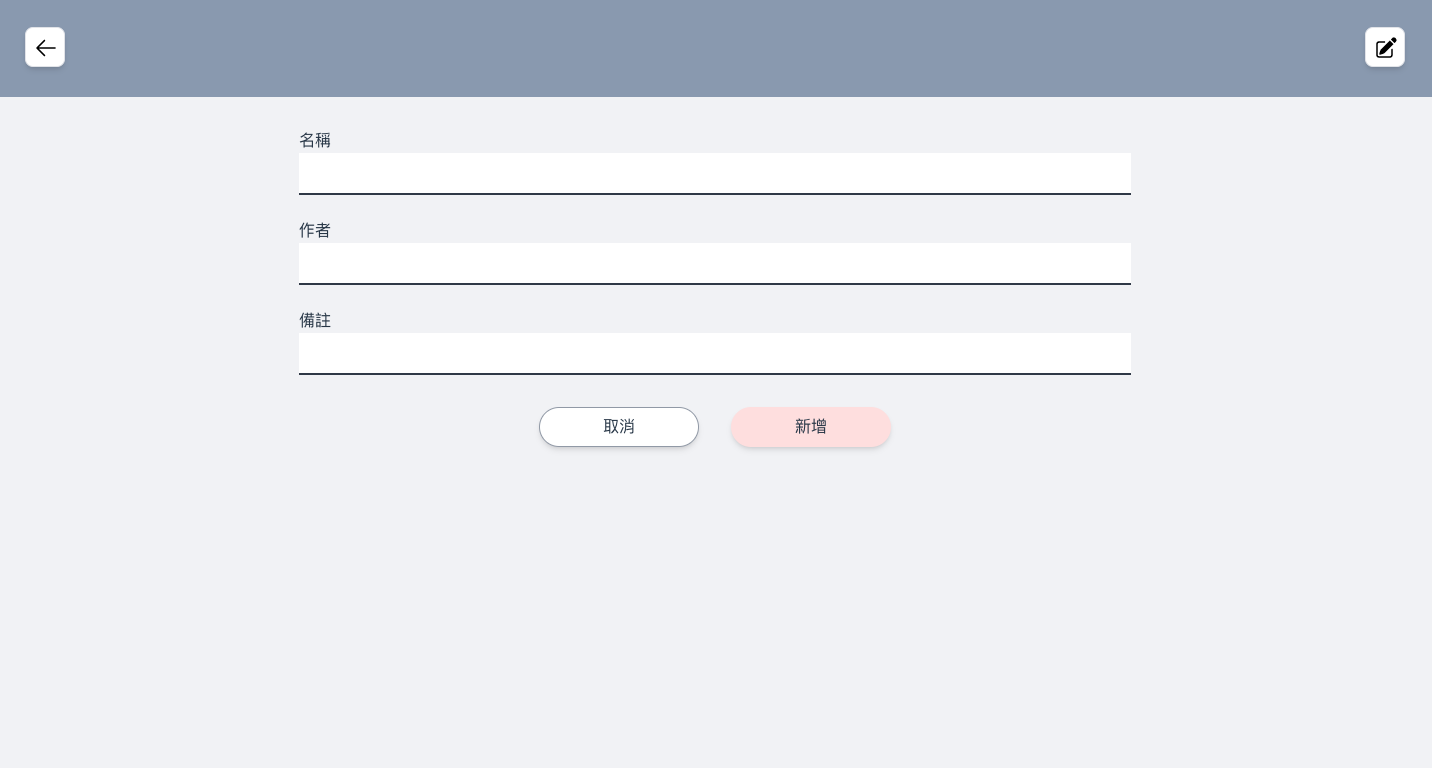
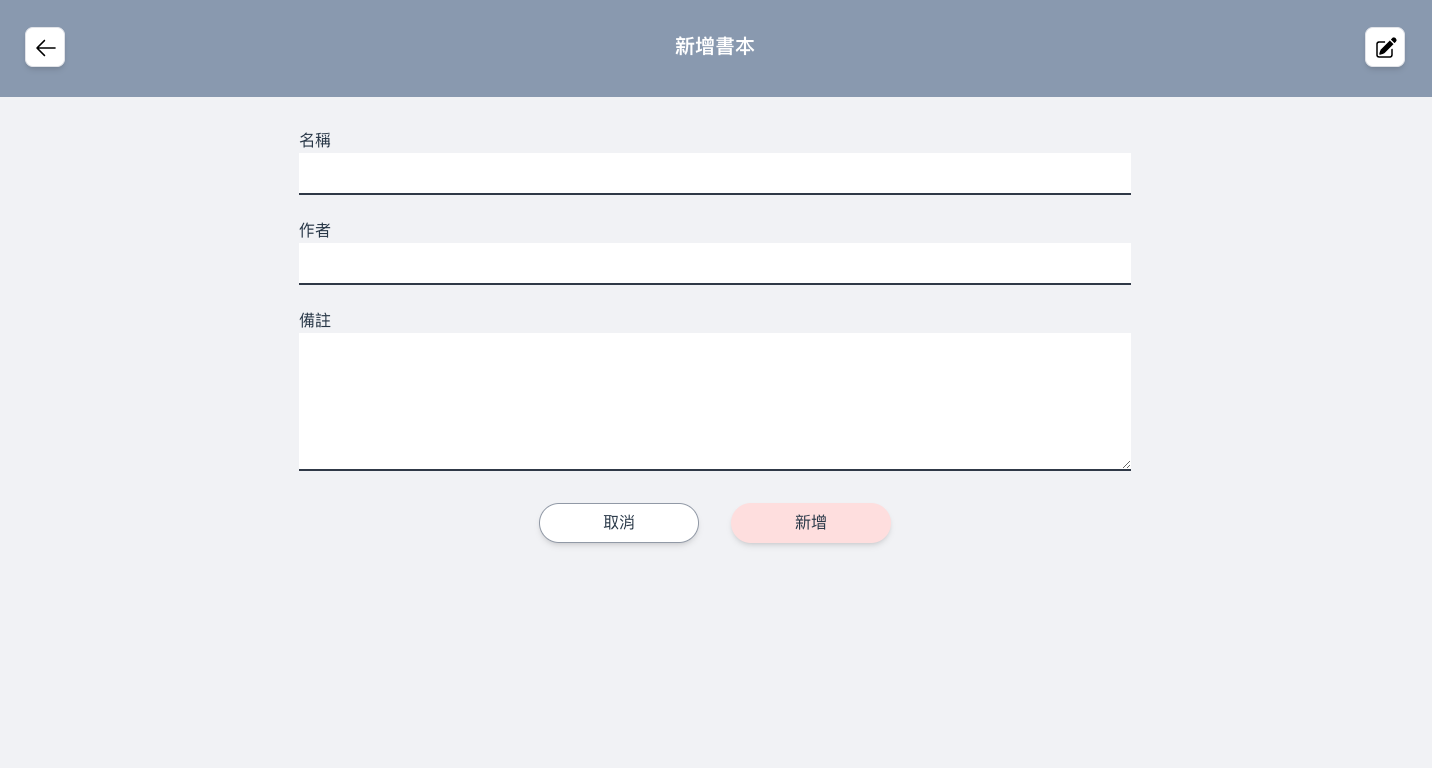
更新 程式碼註解部分

diff --git a/src/views/BookAdd.vue b/src/views/BookAdd.vue
@@ -1,5 +1,5 @@
 <template>
-    <BackNav msg="新增書本"></BackNav>
+    <BackNav item="新增書本"></BackNav>
     <div class="container max-w-4xl mx-auto">
         <Form @submit="onSubmit" :validation-schema="schema" v-slot="{ errors }">
             <div class="grid grid-cols-1 gap-6 text-start p-8">
@@ -15,7 +15,7 @@
                 </label>
                 <label class="block">
                     <span>備註</span>
-                    <Field class="form-input" v-model="Data.description" rows="5" name="description"></Field>
+                    <Field name="description"><textarea class="form-input" v-model="Data.description" rows="5" name="description"></textarea></Field>
                     <span class="text-red-600">{{ errors.description }}</span>
                 </label>
             </div>

diff --git a/src/views/BookDetail.vue b/src/views/BookDetail.vue
@@ -13,8 +13,8 @@
         <span class="text-red-600">{{ errors.author }}</span>
       </label>
       <label class="block">
-        <span>作者</span>
-        <Field class="form-input" v-model=Data.description rows="5" :disabled='readonly' name="description"></Field>
+        <span>備註</span>
+        <Field name="description"><textarea class="form-input" v-model="Data.description" rows="5" :disabled='readonly' name="description"></textarea></Field>
         <span class="text-red-600">{{ errors.description }}</span>
       </label>
       <div class="flex justify-center">

diff --git a/src/views/BookList.vue b/src/views/BookList.vue
@@ -30,7 +30,7 @@
 <script setup>
 import NavBar from '@/components/global/NavBar.vue';
 import { getBookList, getBookDetail } from "@/components/api/book.js";
-import { ref, onMounted, computed } from "vue";
+import { ref, onMounted } from "vue";
 const Data = ref([]);
 onMounted(() => {
   getBookList()
@@ -42,15 +42,4 @@ onMounted(() => {
       console.log("handle error =>", error);
     });
 });
-const getId = (e) => {
-  console.log(e);
-};
-
-// return {
-//   Data, getId
-// };
-// export default {
-//   setup() {
-//   },
-// };
 </script>

diff --git a/src/style/index.css b/src/style/index.css
@@ -33,6 +33,6 @@ nav {
 a:hover {
   cursor: pointer;
 }
-input:read-only {
+.form-input:read-only {
   @apply bg-gray-200;
 }
